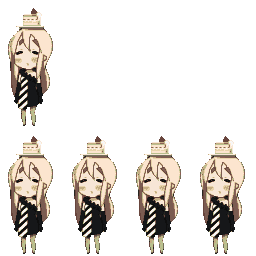
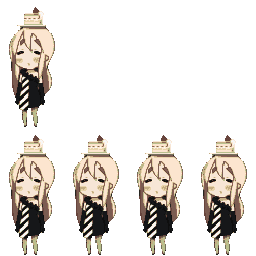
fix: 关闭运行时合成（曾导致身体错位变形）；图包立绘统一身高与脚底（v0.31.4）

diff --git a/lib/client.js b/lib/client.js
@@ -655,7 +655,7 @@
 			if (!Core) throw new Error("dsh-kon-fee-widget: 缺少 KonFeeCore，请先运行 node scripts/build-client.mjs");
 
 			const ASSET_BASE = "/dsh-kon-fee-widget";
-			const ASSET_REV = "2c6f6fbbf22d";
+			const ASSET_REV = "c68c2e5e7a19";
 			const TABLE = Core.TABLE;
 			const SNAP_DISTANCE = 24;
 			const PANEL_MS = 8000;
@@ -1156,7 +1156,8 @@ const PREVIEW_MS = 12000; // 设置页「预览气泡」的停留时长
 					const framesOf = (id) => (Array.isArray(anims[id]) && anims[id].length ? anims[id] : (Core.ANIM[id] || [0]));
 					// 动画角色三种情况：
 					//   ① 图包给了帧表 → 直接用（最精确）
-					//   ② 只给了静态图 → 运行时合成（固定层取换装图，动作层取原帧），仍然会动
+					//   ② 只给了静态图 → 该角色就用这张静态图（不再做「原版四肢 + 新身体」的合成，
+					//      那样拼出来的比例会错位，看起来像变形）
 					//   ③ 什么都没给 → 原版帧表
 					const plan = {};
 					for (const seat of TABLE.seats) {
@@ -1171,8 +1172,8 @@ const PREVIEW_MS = 12000; // 设置页「预览气泡」的停留时长
 						} else if (owned.has(`table/${framesFile}`)) {
 							plan[seat.id] = { file: framesFile, animated: true, compose: false, frames: frameList, scale: ownScale };
 						} else if (owned.has(`table/${staticFile}`)) {
-							// 只有静态图：能合成（scale=1）就合成出动画，否则退回静态
-							plan[seat.id] = { file: staticFile, animated: ownScale === 1, compose: ownScale === 1, frames: frameList, scale: ownScale };
+							// 只有静态图 → 静态（不再合成假动画）
+							plan[seat.id] = { file: staticFile, animated: false, compose: false, frames: frameList, scale: ownScale };
 						} else {
 							plan[seat.id] = { file: framesFile, animated: true, compose: false, frames: frameList, scale: 1 };
 						}

diff --git a/src/client.js b/src/client.js
@@ -516,7 +516,8 @@ const PREVIEW_MS = 12000; // 设置页「预览气泡」的停留时长
 					const framesOf = (id) => (Array.isArray(anims[id]) && anims[id].length ? anims[id] : (Core.ANIM[id] || [0]));
 					// 动画角色三种情况：
 					//   ① 图包给了帧表 → 直接用（最精确）
-					//   ② 只给了静态图 → 运行时合成（固定层取换装图，动作层取原帧），仍然会动
+					//   ② 只给了静态图 → 该角色就用这张静态图（不再做「原版四肢 + 新身体」的合成，
+					//      那样拼出来的比例会错位，看起来像变形）
 					//   ③ 什么都没给 → 原版帧表
 					const plan = {};
 					for (const seat of TABLE.seats) {
@@ -531,8 +532,8 @@ const PREVIEW_MS = 12000; // 设置页「预览气泡」的停留时长
 						} else if (owned.has(`table/${framesFile}`)) {
 							plan[seat.id] = { file: framesFile, animated: true, compose: false, frames: frameList, scale: ownScale };
 						} else if (owned.has(`table/${staticFile}`)) {
-							// 只有静态图：能合成（scale=1）就合成出动画，否则退回静态
-							plan[seat.id] = { file: staticFile, animated: ownScale === 1, compose: ownScale === 1, frames: frameList, scale: ownScale };
+							// 只有静态图 → 静态（不再合成假动画）
+							plan[seat.id] = { file: staticFile, animated: false, compose: false, frames: frameList, scale: ownScale };
 						} else {
 							plan[seat.id] = { file: framesFile, animated: true, compose: false, frames: frameList, scale: 1 };
 						}
